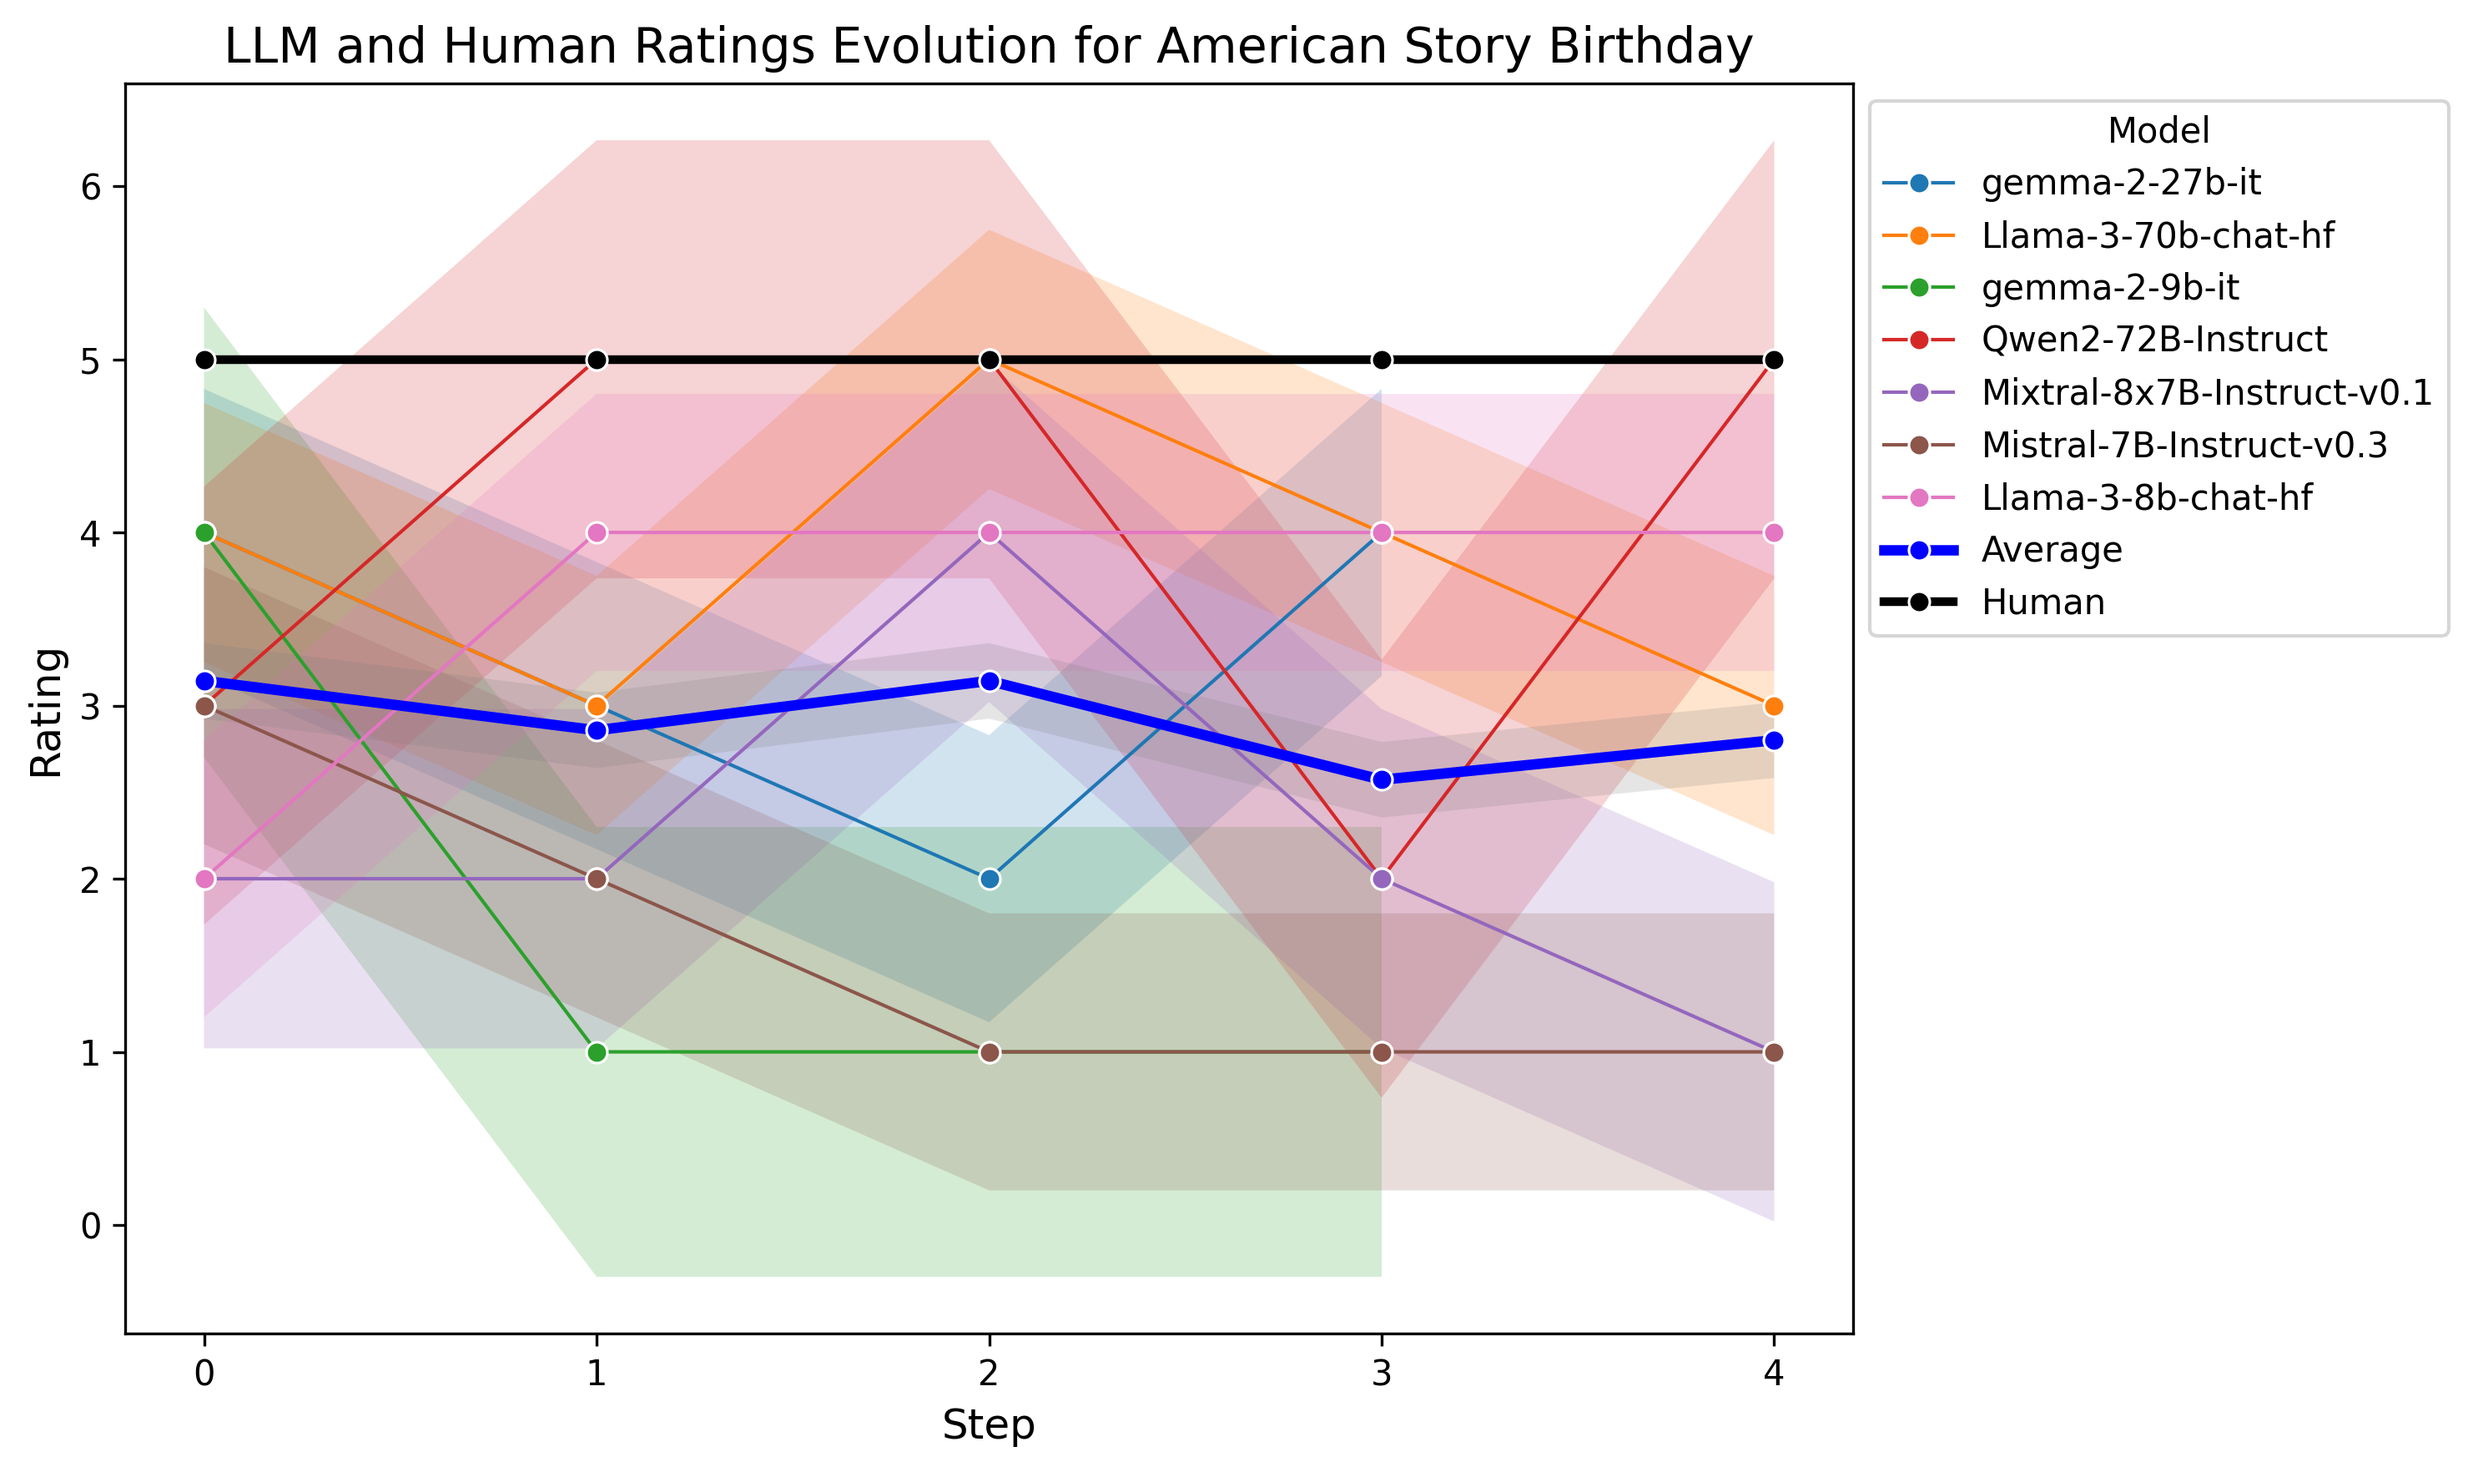
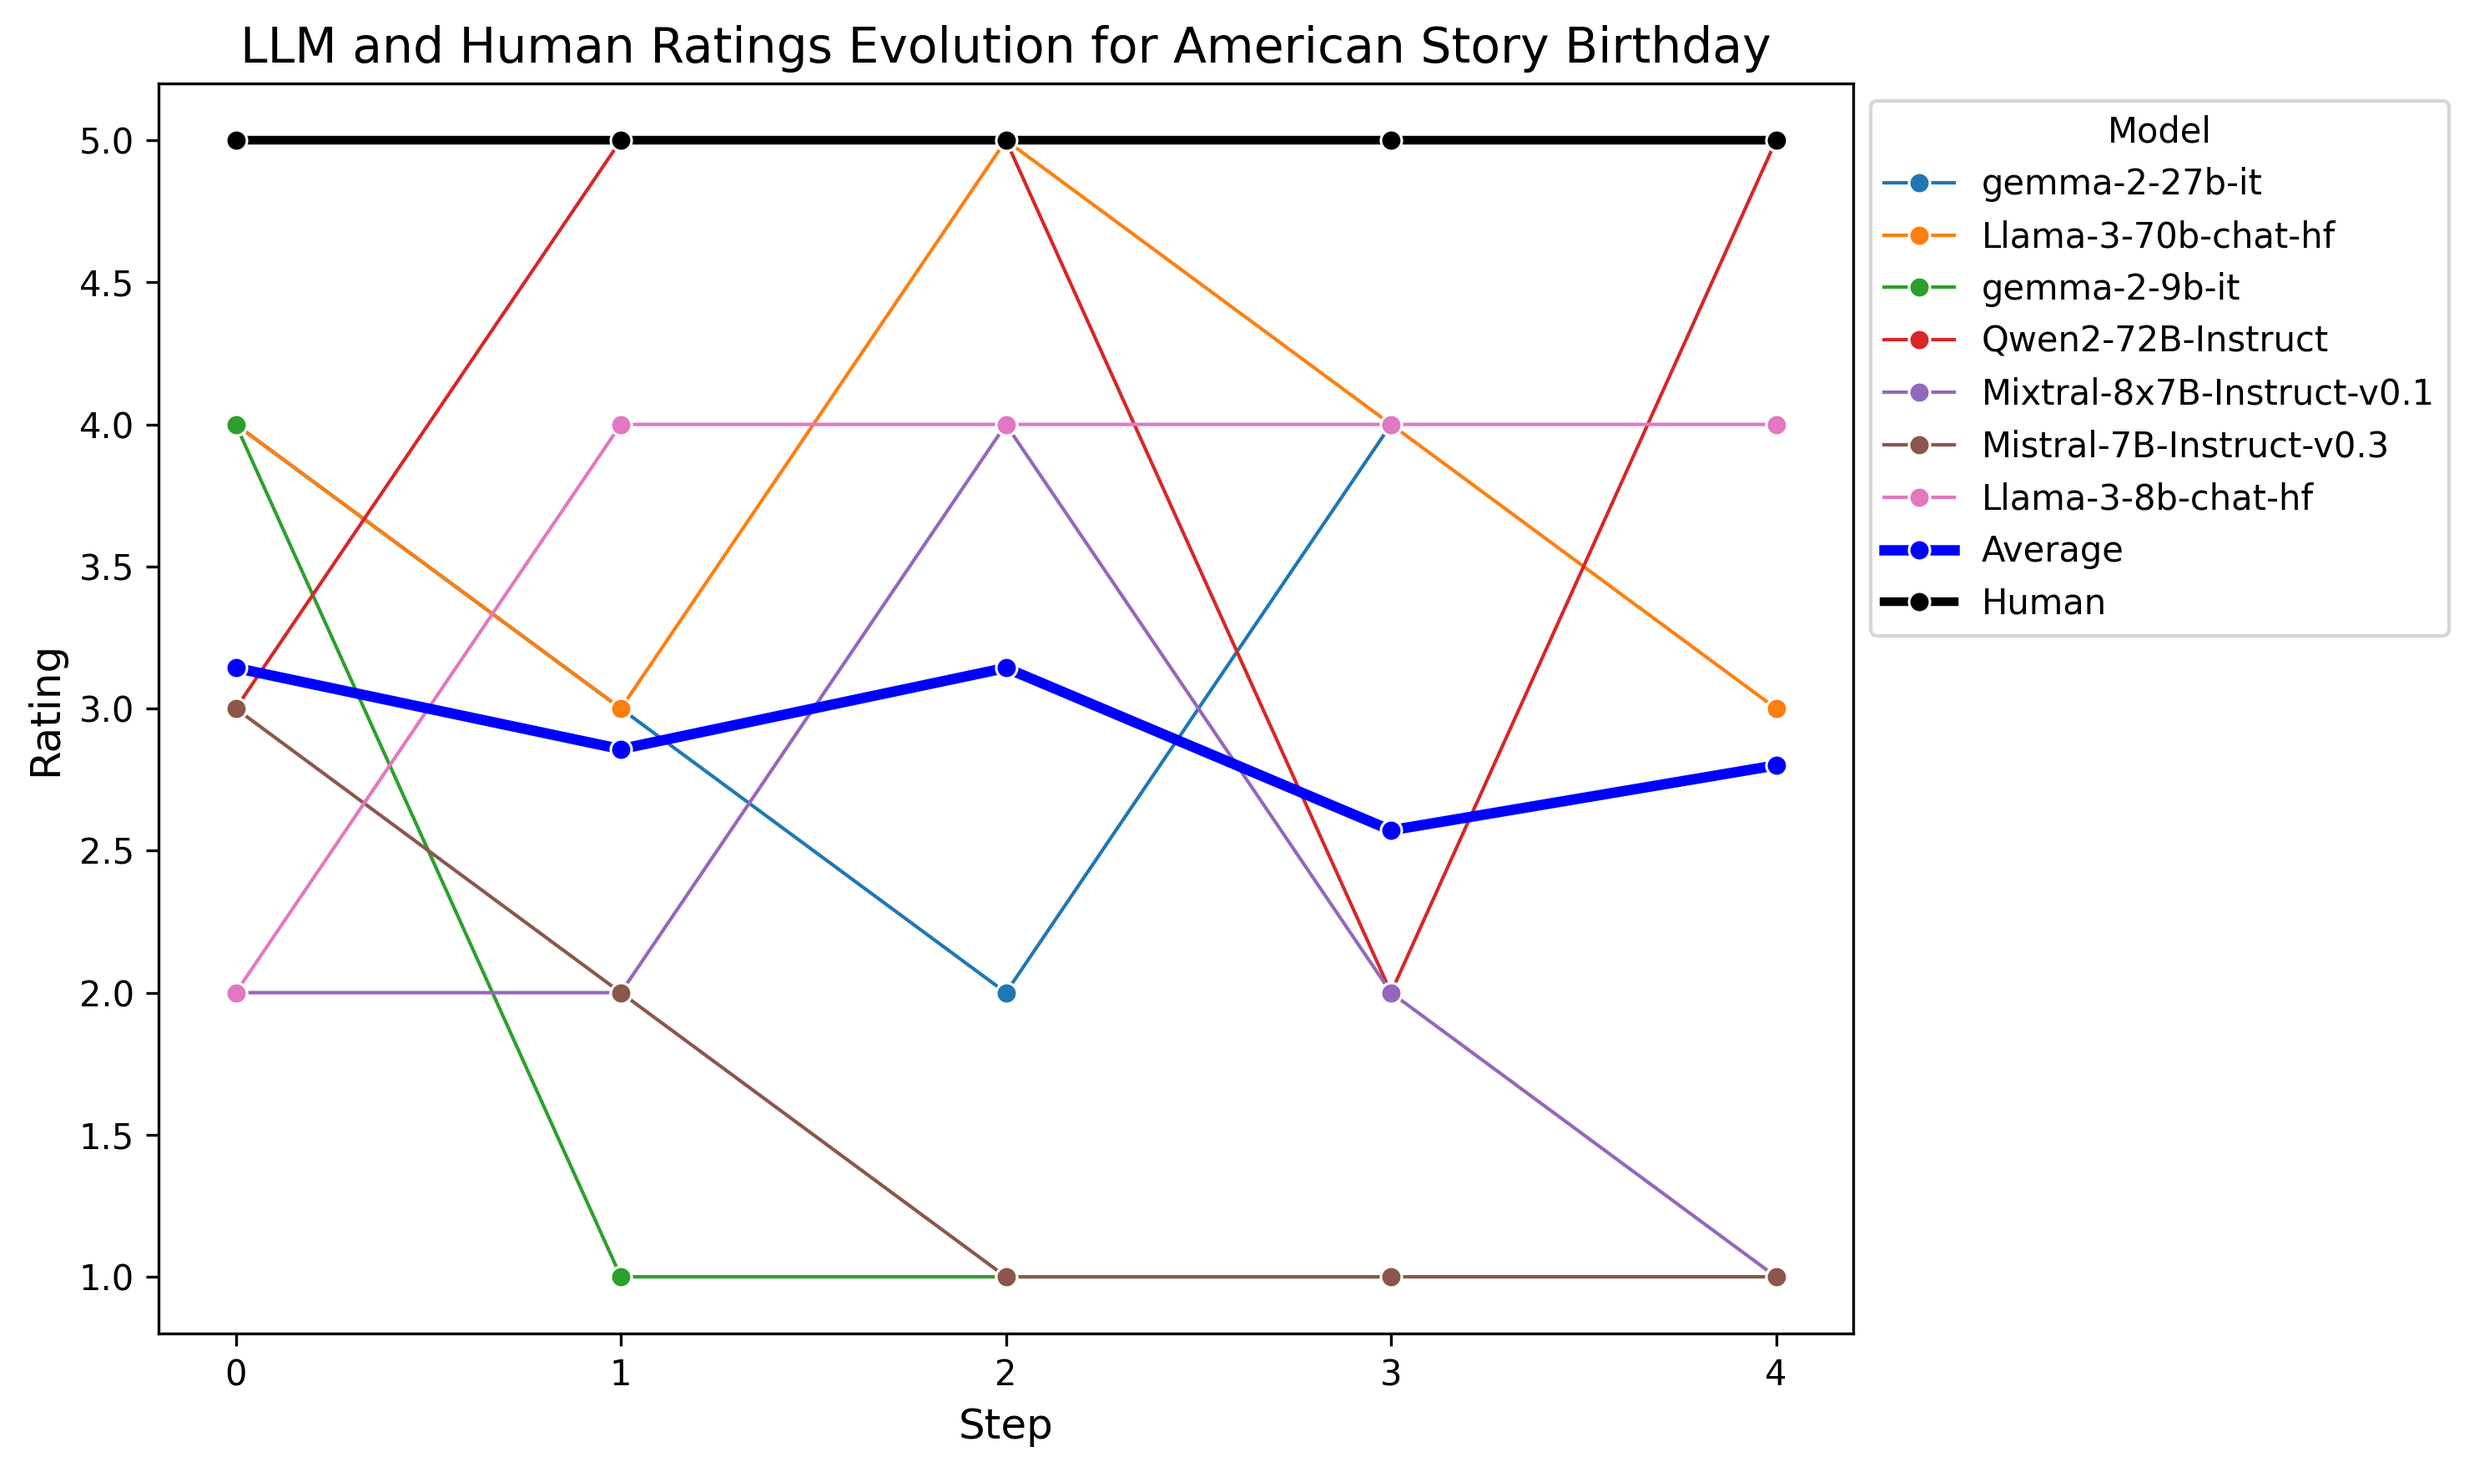
fix: Remove shaded confidence intervals from line plots
- Remove fill_between() calls from Brewer line plots for cleaner visualization
- All line charts now display clean lines with markers only
- No shaded areas or confidence intervals on any line plots
- Improves readability and visual clarity of ratings evolution

diff --git a/scripts/data_processing/brewer_visualizations.py b/scripts/data_processing/brewer_visualizations.py
@@ -136,11 +136,7 @@ def main():
         for llm, ratings in llm_data.items():
             steps = np.array(range(len(ratings)))
             mean_ratings = np.array(ratings)
-            std_dev = np.std(mean_ratings)
-            min_ci = 0.1
-            lower_bound = mean_ratings - np.maximum(std_dev, min_ci)
-            upper_bound = mean_ratings + np.maximum(std_dev, min_ci)
-            plt.fill_between(steps, lower_bound, upper_bound, alpha=0.2)
+            # Removed fill_between for shaded areas
             
             # Get shortened model name
             if 'gemma-2-27b' in llm:
@@ -164,11 +160,7 @@ def main():
         
         steps2 = np.array(range(len(ratings)))
         mean_ratings2 = np.array(stepwise_story_averages[story])
-        std_dev2 = np.std(mean_ratings2)
-        min_ci2 = 0.1
-        lower_bound2 = mean_ratings2 - np.maximum(std_dev2, min_ci2)
-        upper_bound2 = mean_ratings2 + np.maximum(std_dev2, min_ci2)
-        plt.fill_between(steps2, lower_bound2, upper_bound2, alpha=0.2)
+        # Removed fill_between for shaded areas
         sns.lineplot(x=steps2, y=mean_ratings2, label="Average", marker="o", linewidth=3, color='blue')
         
         human_steps = np.array(range(5))
